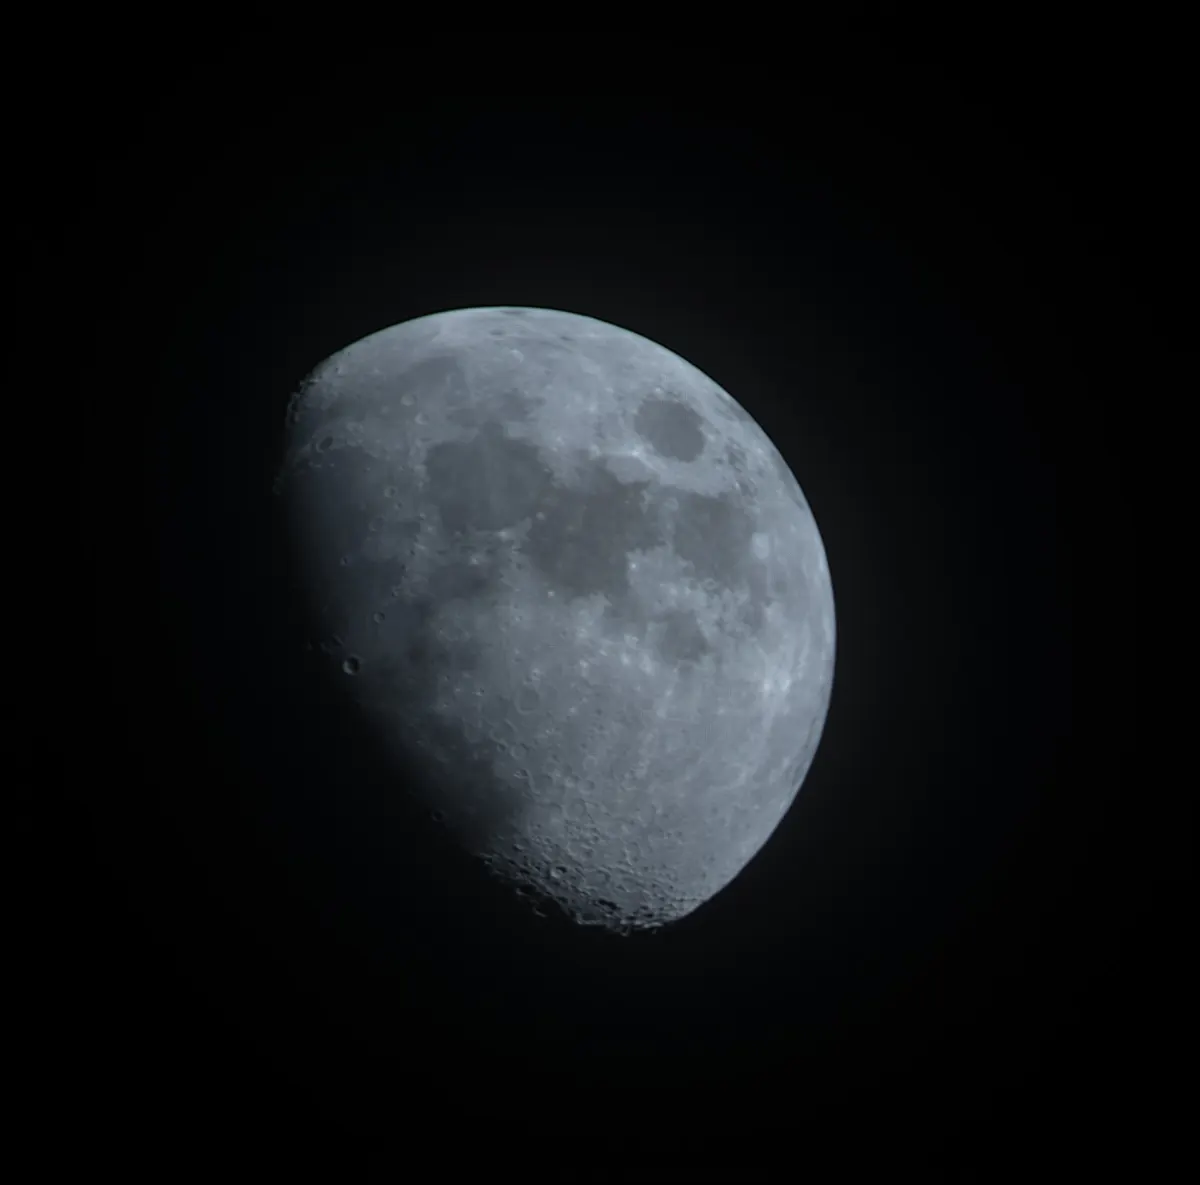
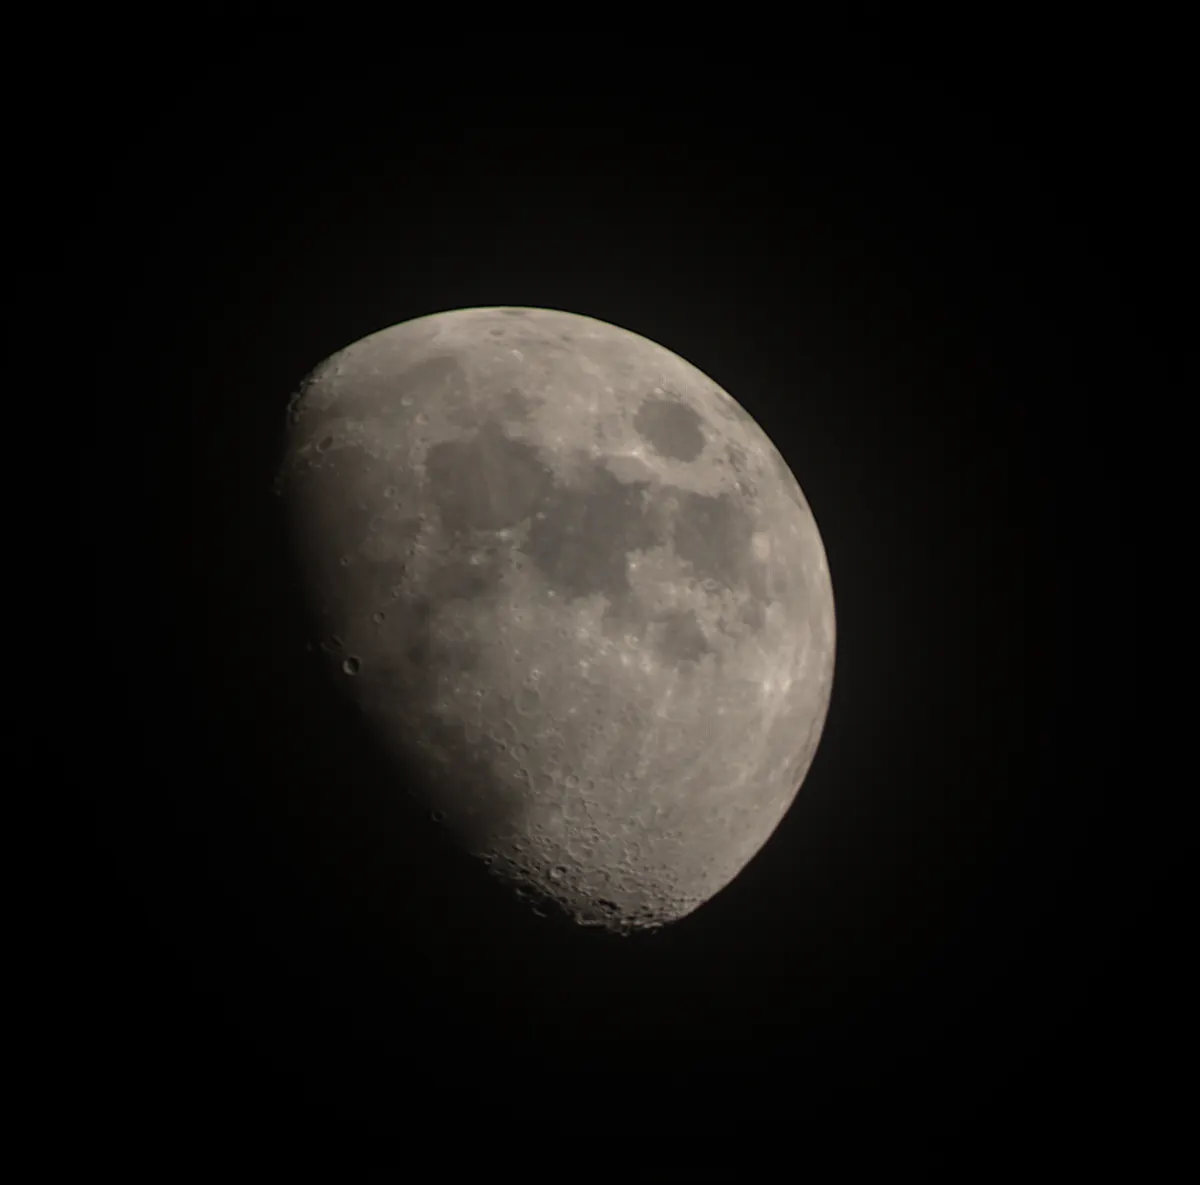
chore(photos): replace MONN.jpg with MONN.png

Changed region(s): [[0.3083, 0.2498, 0.7092, 0.7494], [0.555, 0.7494, 0.5858, 0.7806]]

diff --git a/public/index.html b/public/index.html
@@ -29,7 +29,7 @@
       <img src="photos/thumb/99E_1304.webp" alt="99E_1304.jpg" data-full="photos/full/99E_1304.webp" loading="lazy" decoding="async">
       <img src="photos/thumb/99E_1325.webp" alt="99E_1325.jpg" data-full="photos/full/99E_1325.webp" loading="lazy" decoding="async">
       <img src="photos/thumb/99E_1595.webp" alt="99E_1595.jpg" data-full="photos/full/99E_1595.webp" loading="lazy" decoding="async">
-      <img src="photos/thumb/MONN.webp" alt="MONN.jpg" data-full="photos/full/MONN.webp" loading="lazy" decoding="async">
+      <img src="photos/thumb/MONN.webp" alt="MONN.png" data-full="photos/full/MONN.webp" loading="lazy" decoding="async">
       <img src="photos/thumb/Spring.webp" alt="Spring.jpg" data-full="photos/full/Spring.webp" loading="lazy" decoding="async">
       <img src="photos/thumb/b57c644e-d06d-4a2c-b953-860a316019c0.webp" alt="b57c644e-d06d-4a2c-b953-860a316019c0.png" data-full="photos/full/b57c644e-d06d-4a2c-b953-860a316019c0.webp" loading="lazy" decoding="async">
       <img src="photos/thumb/梨花树.webp" alt="梨花树.jpg" data-full="photos/full/梨花树.webp" loading="lazy" decoding="async">
